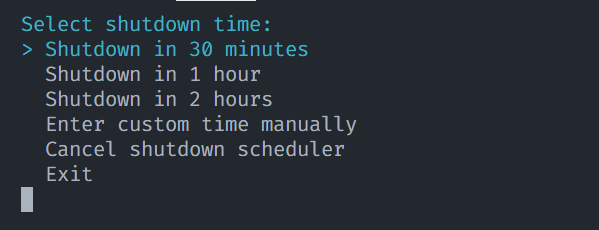
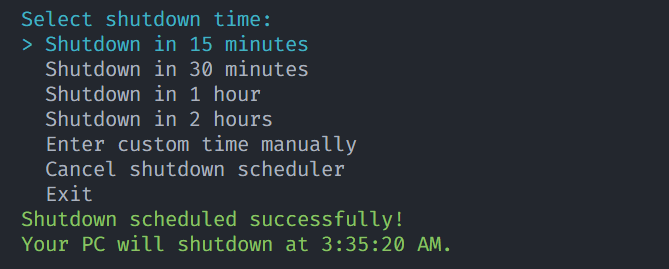
Refactor

Changed region(s): [[0.0301, 0.0, 0.6912, 0.9435]]

diff --git a/index.js b/index.js
@@ -5,42 +5,67 @@ import prompt from "prompt";
 import keypress from "keypress";
 import chalk from "chalk";
 
-// Enable keypress events for the process
 keypress(process.stdin);
 
-// Define the shutdown function
 const shutdown = (time) => {
   const command =
     process.platform === "win32"
       ? `shutdown /s /t ${time}`
       : `shutdown -h ${time}`;
 
+  const shutdownTime = new Date(Date.now() + time * 1000);
+  const formattedShutdownTime = shutdownTime.toLocaleTimeString();
+
   exec(command, (error, stdout, stderr) => {
     if (error) {
-      console.error(chalk.red(`Error executing shutdown command: ${error}`));
+      handleError(error, stderr, time);
     } else {
-      console.log(chalk.green("Shutdown scheduled successfully!"));
+      console.log(
+        chalk.green(
+          `Shutdown scheduled successfully!\nYour PC will shutdown at ${formattedShutdownTime}.`
+        )
+      );
+      process.exit(0);
     }
-    process.exit(0);
   });
+};
+
+const handleError = (error, stderr, time = 0) => {
+  if (stderr.includes("A system shutdown has already been scheduled")) {
+    console.log(chalk.yellow("A shutdown is already scheduled. Replacing..."));
+    cancelShutdownSchedule();
+    shutdown(time);
+  } else if (
+    stderr.includes(
+      "Unable to abort the system shutdown because no shutdown was in progress"
+    )
+  ) {
+    console.error(
+      chalk.red(
+        "Error: No shutdown is currently in progress. Please schedule a shutdown first."
+      )
+    );
+  } else {
+    console.error(chalk.red(`Error executing shutdown command: ${error}`));
+    process.exit(1);
+  }
 };
 
 const cancelShutdownSchedule = () => {
   const command = process.platform === "win32" ? `shutdown /a` : `shutdown -a`;
   exec(command, (error, stdout, stderr) => {
     if (error) {
-      console.error(
-        chalk.red(`Error executing Cancel Shutdown Schedule: ${error}`)
-      );
+      handleError(error, stderr);
+      return false;
     } else {
-      console.log(chalk.green("Canceled Shutdown scheduled!"));
+      console.log(chalk.green("Previous shutdown schedule canceled!"));
+      return true;
     }
-    process.exit(0);
   });
 };
 
-// Prompt user for shutdown time
 const menuOptions = [
+  { label: "Shutdown in 15 minutes", time: 15 * 60 },
   { label: "Shutdown in 30 minutes", time: 30 * 60 },
   { label: "Shutdown in 1 hour", time: 60 * 60 },
   { label: "Shutdown in 2 hours", time: 2 * 60 * 60 },
@@ -55,44 +80,33 @@ const displayMenu = () => {
   console.clear();
   console.log(chalk.cyan("Select shutdown time:"));
   menuOptions.forEach((option, index) => {
-    if (index === selectedOptionIndex) {
-      console.log(chalk.cyan(`> ${option.label}`));
-    } else {
-      console.log(chalk.white(`  ${option.label}`));
-    }
+    const label =
+      index === selectedOptionIndex ? `> ${option.label}` : `  ${option.label}`;
+    console.log(chalk[index === selectedOptionIndex ? "cyan" : "white"](label));
   });
 };
 
 const handleKeyPress = (ch, key) => {
-  if (!key || !key.name) {
-    return;
-  }
+  if (!key || !key.name) return;
 
   switch (key.name) {
     case "up":
       selectedOptionIndex = Math.max(0, selectedOptionIndex - 1);
       break;
-
     case "down":
       selectedOptionIndex = Math.min(
         menuOptions.length - 1,
         selectedOptionIndex + 1
       );
       break;
-
     case "return":
       process.stdin.pause();
       handleReturnAction();
       break;
-
     case "c":
     case "z":
-      if (key.ctrl) {
-        // terminate key
-        process.exit(0);
-      }
+      if (key.ctrl) process.exit(0);
       break;
-
     default:
       return;
   }
@@ -101,14 +115,16 @@ const handleKeyPress = (ch, key) => {
 };
 
 const handleReturnAction = () => {
-  if (menuOptions[selectedOptionIndex].custom) {
+  const selectedOption = menuOptions[selectedOptionIndex];
+
+  if (selectedOption.custom) {
     handleCustomTimeInput();
-  } else if (menuOptions[selectedOptionIndex].cancel) {
+  } else if (selectedOption.cancel) {
     cancelShutdownSchedule();
-  } else if (menuOptions[selectedOptionIndex].exit) {
+  } else if (selectedOption.exit) {
     process.exit(0);
   } else {
-    shutdown(menuOptions[selectedOptionIndex].time);
+    shutdown(selectedOption.time);
   }
 };
 
@@ -137,18 +153,16 @@ const handleCustomTimeInput = () => {
   });
 };
 
-// Set up event listeners
 process.stdin.on("keypress", handleKeyPress);
 process.stdin.setRawMode(true);
 process.stdin.resume();
 
-// Handle exit
 const handleExit = () => {
   console.log("\nExiting the shutdown program.");
   process.exit(0);
 };
-process.on("SIGINT", handleExit); // Ctrl+C
-process.on("SIGTSTP", handleExit); // Ctrl+Z
 
-// Display initial menu
+process.on("SIGINT", handleExit);
+process.on("SIGTSTP", handleExit);
+
 displayMenu();
